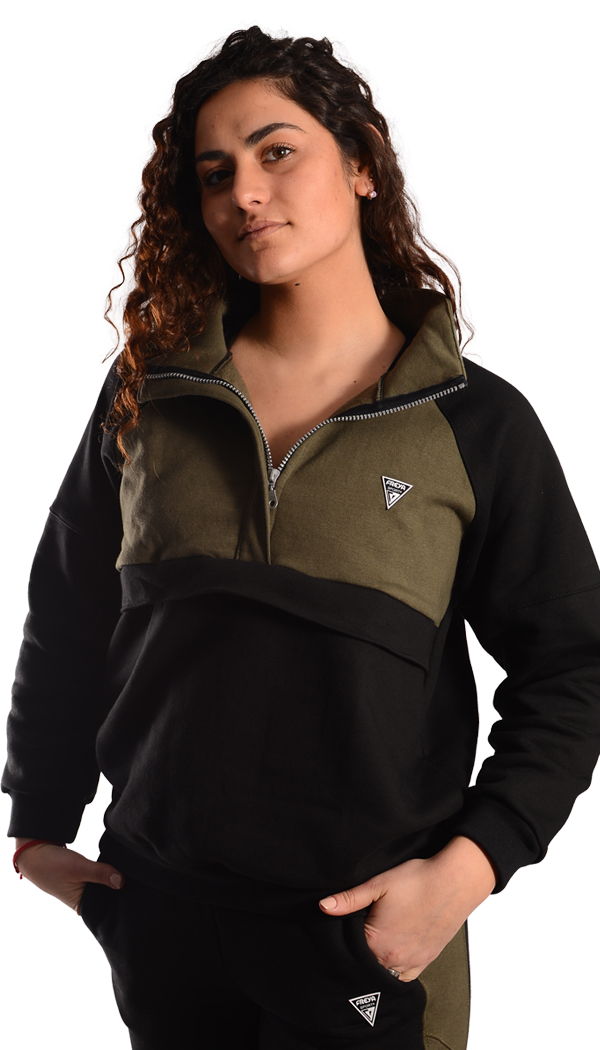
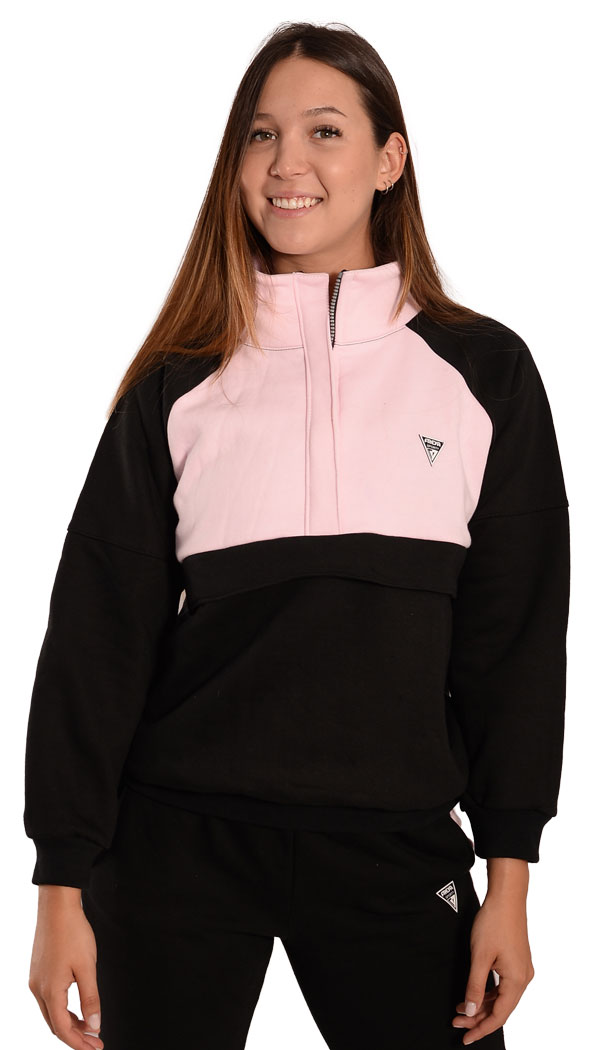
estampa nueva

diff --git a/estampados.html b/estampados.html
@@ -331,10 +331,12 @@
 
             <div class="col-lg-2">
                 <fieldset>
-                    <img src="Lemur/estampas/eira.png">
-                    <h3>Eira</h3>
+                    <img src="Lemur/estampas/fall.png">
+                    <h3>Fall</h3>
                 </fieldset>
             </div>
+
+
 
         </div>
 
